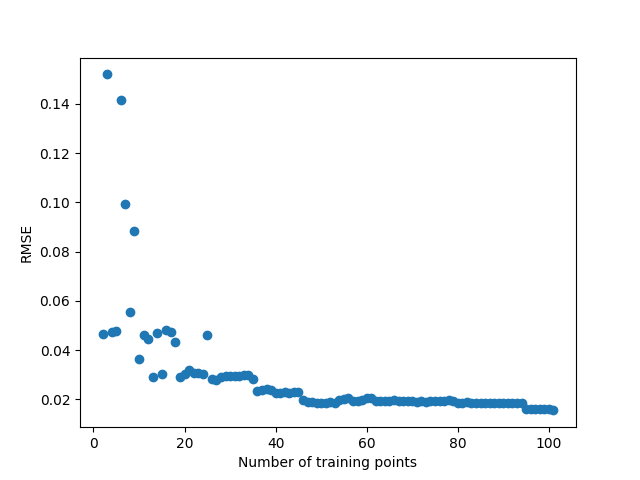
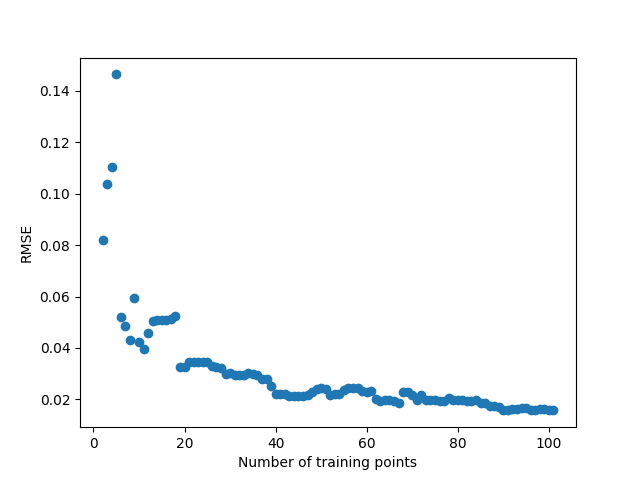
Fix LHS error

diff --git a/analysis/sequential_design_training_curve.py b/analysis/sequential_design_training_curve.py
@@ -65,10 +65,10 @@ plt.figure(1)
 plt.scatter(np.arange(2,102,1), mae)
 plt.ylabel('MAE')
 plt.xlabel('Number of training points')
-plt.savefig('analysis/sequential_design_plots/seq_design_mae.png')
+plt.savefig('analysis/sequential_design_plots/seq_design_mae_LHS_fix.png')
 
 plt.figure(2)
 plt.scatter(np.arange(2,102,1), rmse)
 plt.ylabel('RMSE')
 plt.xlabel('Number of training points')
-plt.savefig('analysis/sequential_design_plots/seq_design_rmse.png')
+plt.savefig('analysis/sequential_design_plots/seq_design_rmse_LHS_fix.png')

diff --git a/analysis/sequential_design_diagnosis.py b/analysis/sequential_design_diagnosis.py
@@ -87,5 +87,5 @@ turbine3.scatter(X_test[:, 4], X_test[:, 5],
                  c=(y_predict - y_test)/(y_test+0.88),cmap=Geyser_3.mpl_colormap, vmin=-0.1, vmax=0.1)
 turbine3.scatter(X_train[:, 4], X_train[:, 5], c='black')
 plt.colorbar(x)
-plt.savefig('analysis/sequential_design_plots/seq_design_transformed_max_change_halved.png')
+plt.savefig('analysis/sequential_design_plots/seq_design_transformed_max_change_halved_LHS_fix.png')
 

diff --git a/sequential_design/experimentaldesign.py b/sequential_design/experimentaldesign.py
@@ -12,8 +12,8 @@ from regular_array_sampling.functions import calculate_distance
 def validlhs():
     from pyDOE import lhs as lhsd
     n_samples = 0
-    while n_samples < 300:
-        lhs = lhsd(6, 3100)
+    while n_samples != 300:
+        lhs = lhsd(6, 2800)
         #expand x, y coordinates to their real values
         lhs[:, 0] = expon(scale=10).ppf(lhs[:, 0])
         lhs[:, 1] = norm(0, 2.5).ppf(lhs[:, 1])
